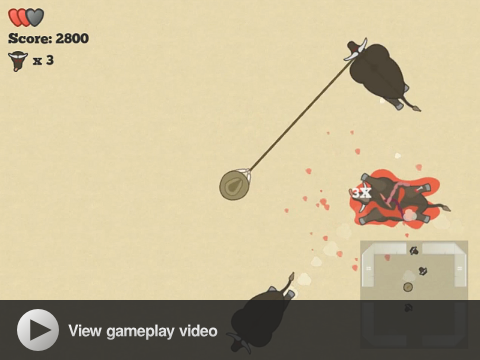
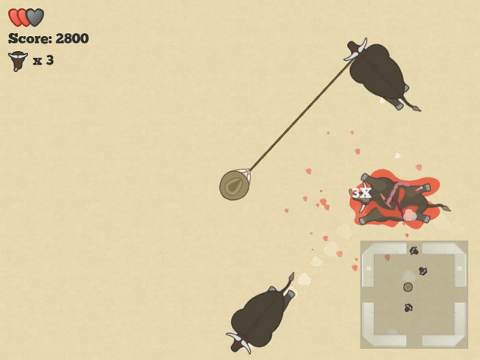
Made overlay separate from image.

Changed region(s): [[0.0, 0.825, 1.0, 1.0]]

diff --git a/index.html b/index.html
@@ -16,7 +16,7 @@
 </div>
 <div id="ld18" class="box">
 	<h1>Fistful of Beef</h1>
-	<div class="preview"><a href="http://youtube.com/watch?v=gQwI0efc6Kk" onclick="playVid('gQwI0efc6Kk'); return false"><img src="images/fobvidpreview.png" alt="click to play a gameplay video!" /></a></div>
+	<div class="preview"><a href="http://youtube.com/watch?v=gQwI0efc6Kk" onclick="playVid('gQwI0efc6Kk'); return false"><img src="images/fobvidpreview.png" alt="click to play a gameplay video!" /><span></span></a></div>
 	<p>FoB is a game where you swing bulls to defend yourself against incoming hordes of...other bulls!</p>
 	<p>It was developed for the 18th Ludum Dare &mdash; "Enemies as Weapons."</p>
 	<p>Currently it features a single-player mode where your objective is to catch a bull with your lasso, swing it around you and bash those blasted bovine to bits! The quicker you kill, the more points you get.</p>

diff --git a/style.css b/style.css
@@ -106,6 +106,20 @@ div.preview iframe {
 	height: 362px;
 }
 
+div.preview {
+	position: relative;
+}
+
+div.preview span {
+	width: 480px;
+	height: 60px;
+	display: block;
+	position: absolute;
+	bottom: 15px;
+	left: 15px;
+	background: url(images/overlay.png) no-repeat; 
+}
+
 #push {
 	height: 30px;
 }
